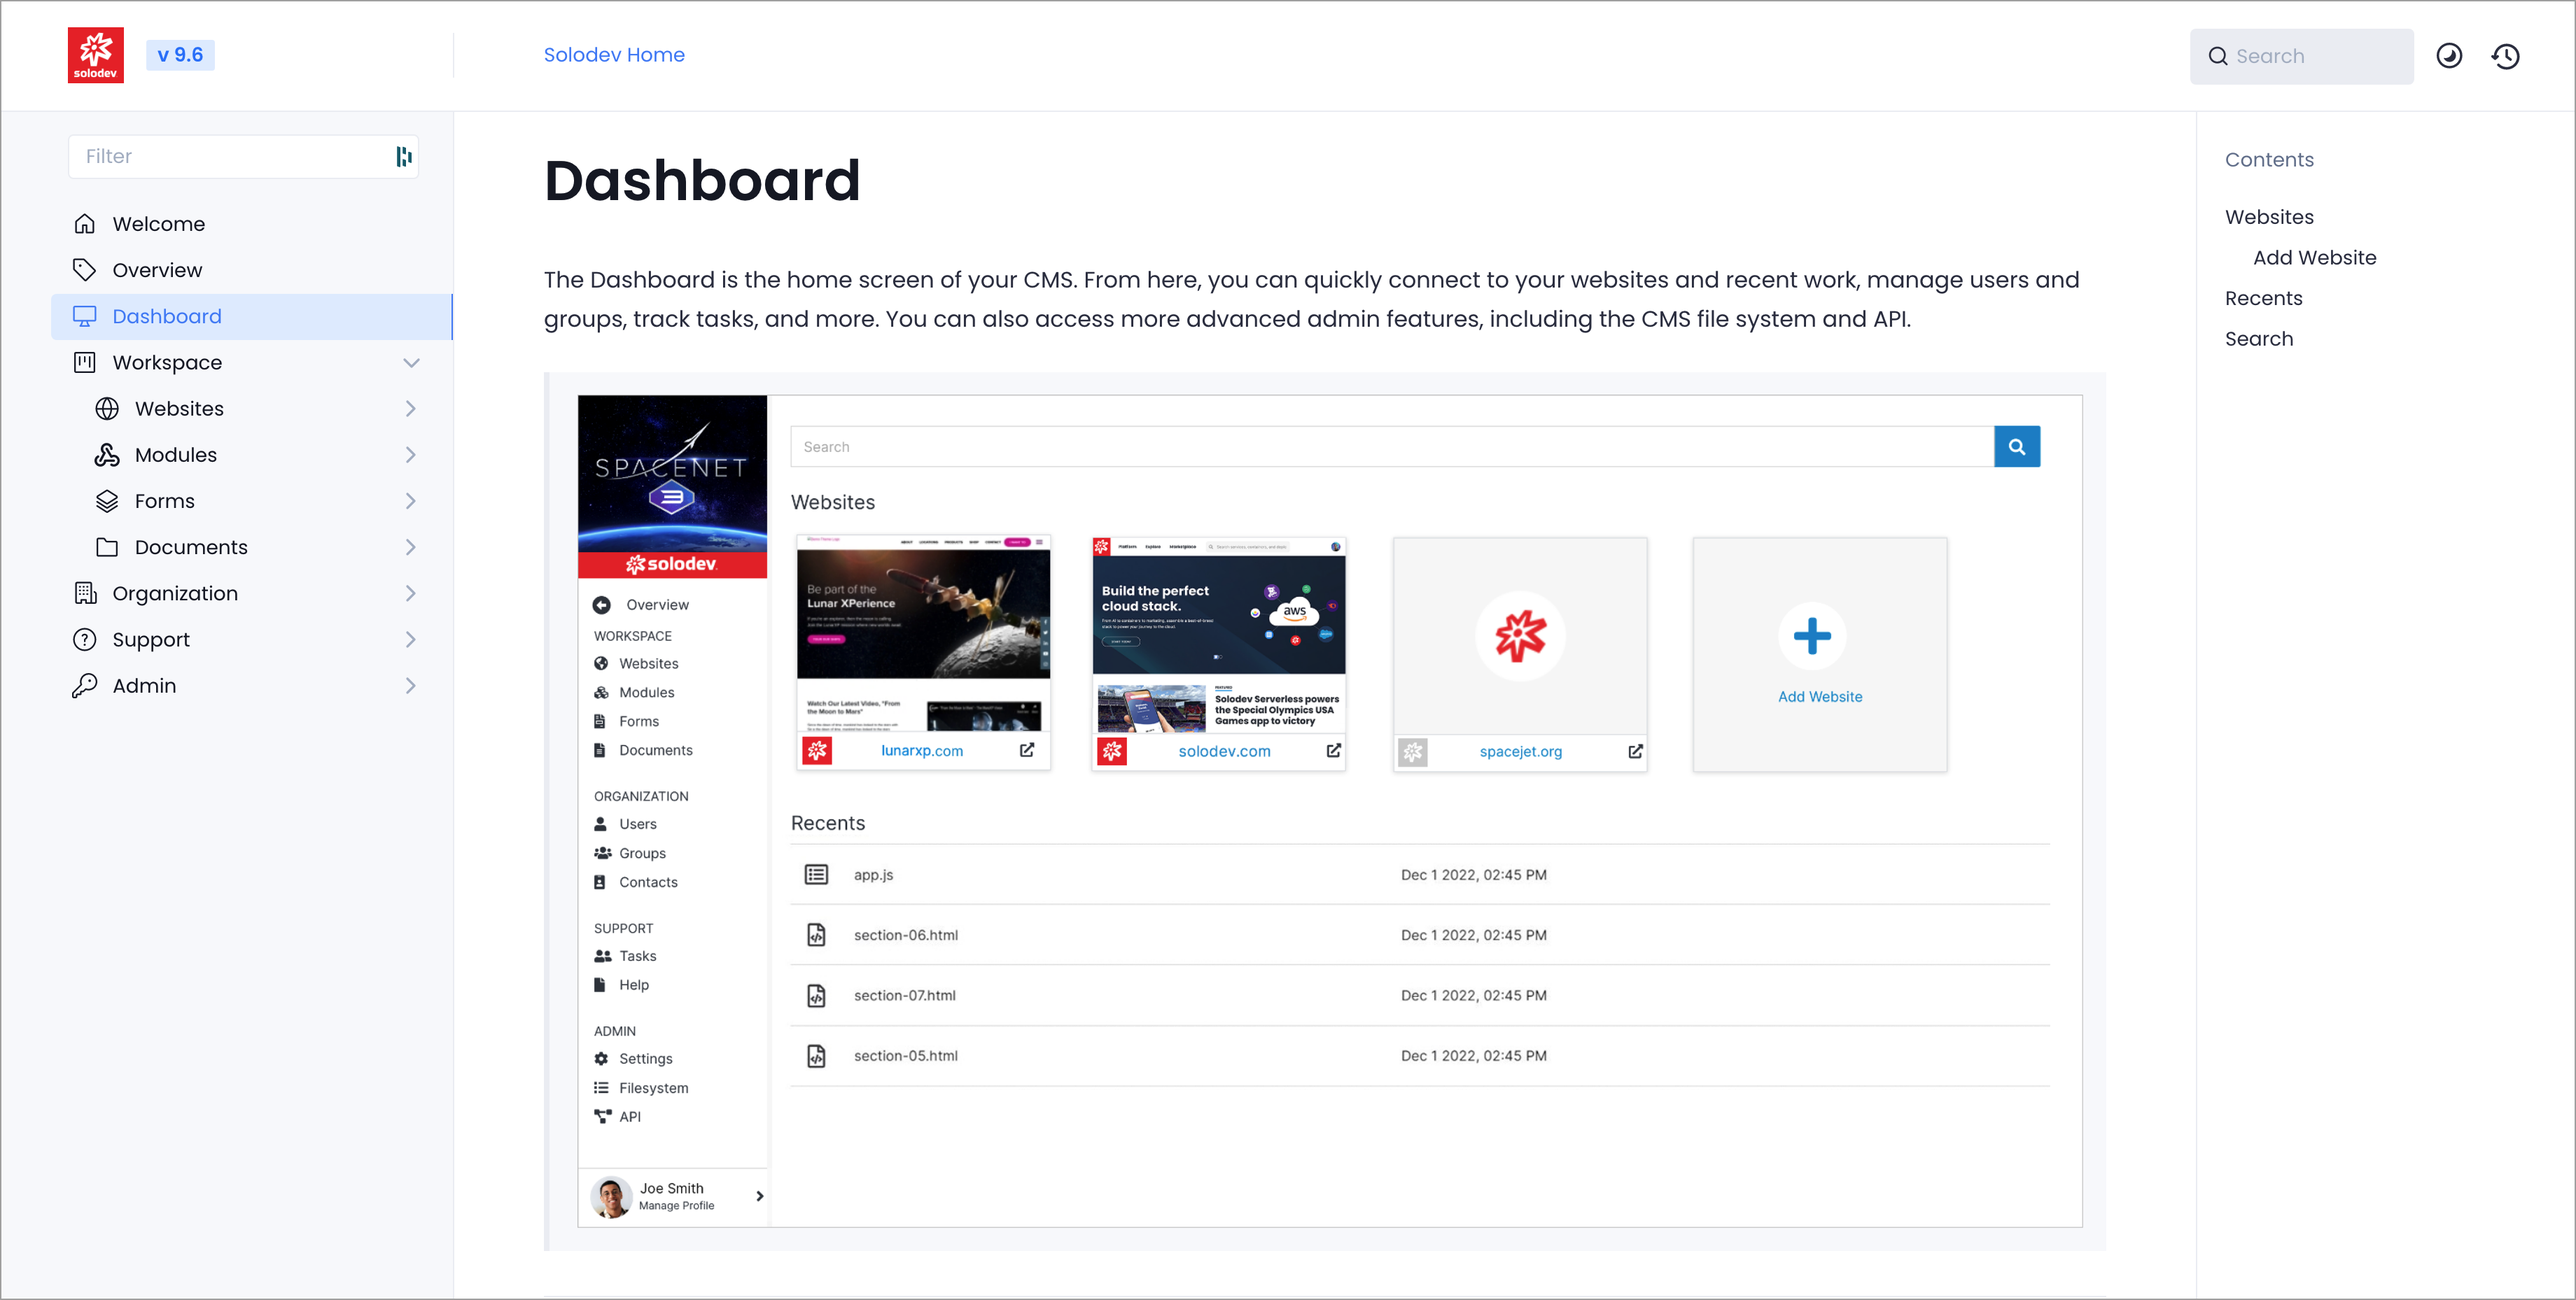
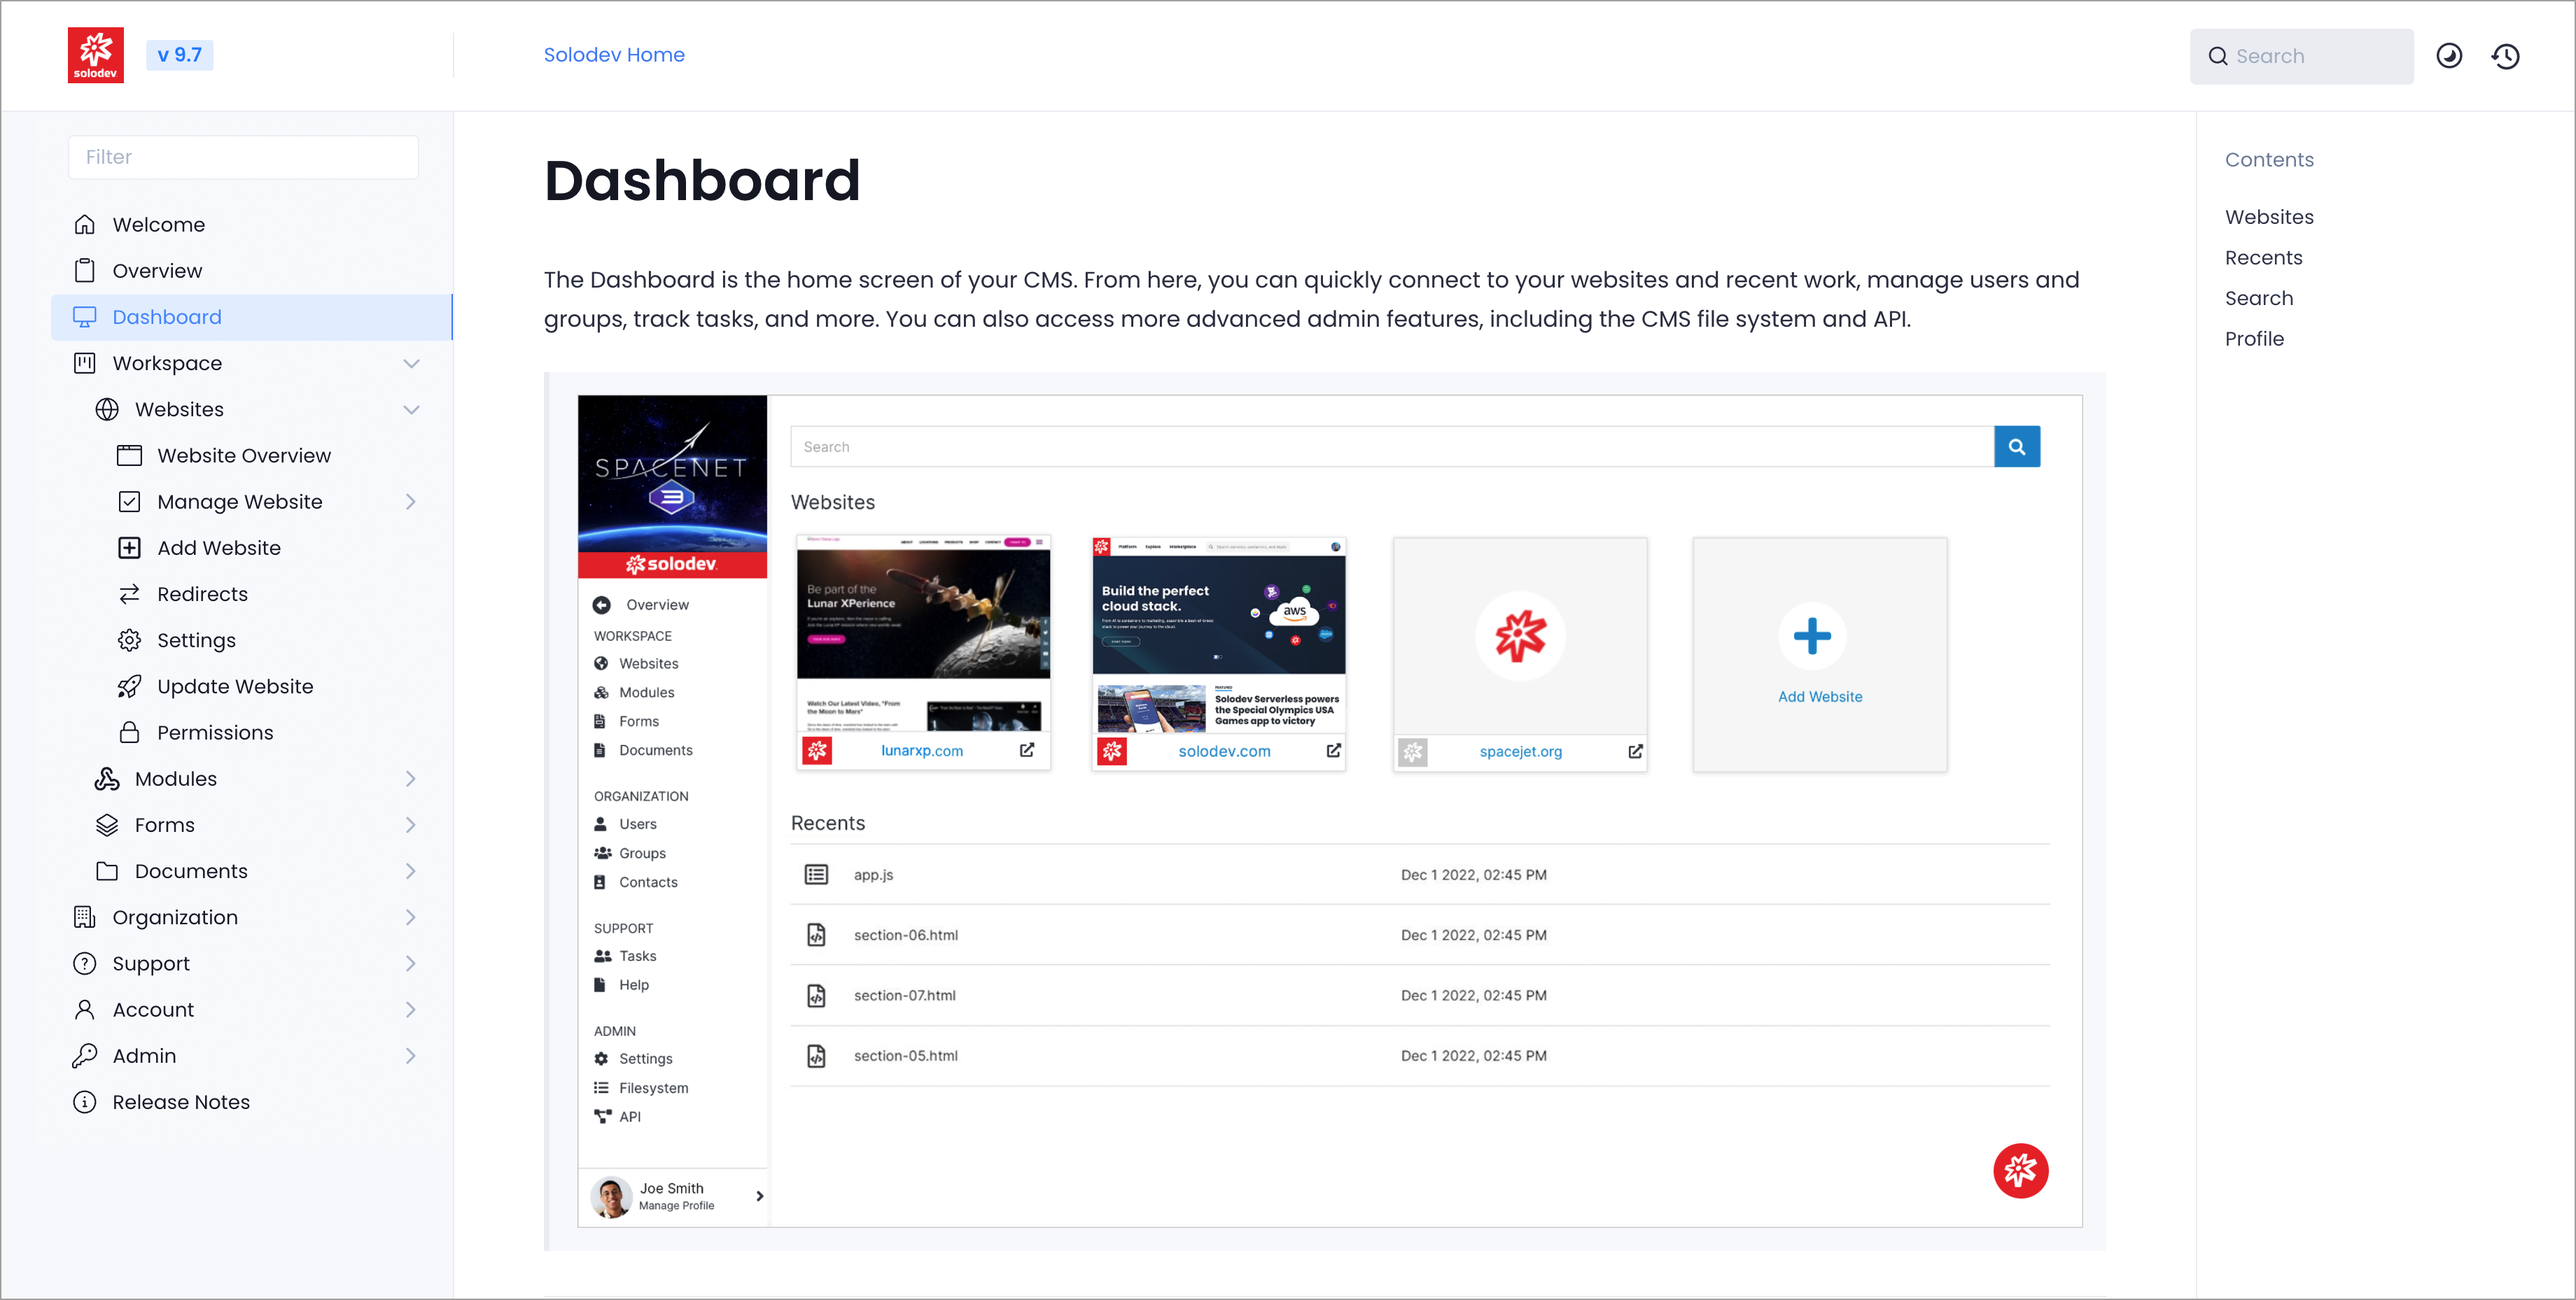
updated dashboard and overview pictures

diff --git a/src/Dashboard/index.md b/src/Dashboard/index.md
@@ -2,7 +2,7 @@
 
 The Dashboard is the home screen of your CMS. From here, you can quickly connect to your websites and recent work, manage users and groups, track tasks, and more. You can also access advanced admin features, including the CMS file system and API.
 
-<img src="../../../images/dashboard9.jpg" alt="dashboard9" style="width: 100%; display: block"></a>
+<img src="../../../images/dashboard9.png" alt="dashboard9" style="width: 100%; display: block"></a>
 
 ---
 
